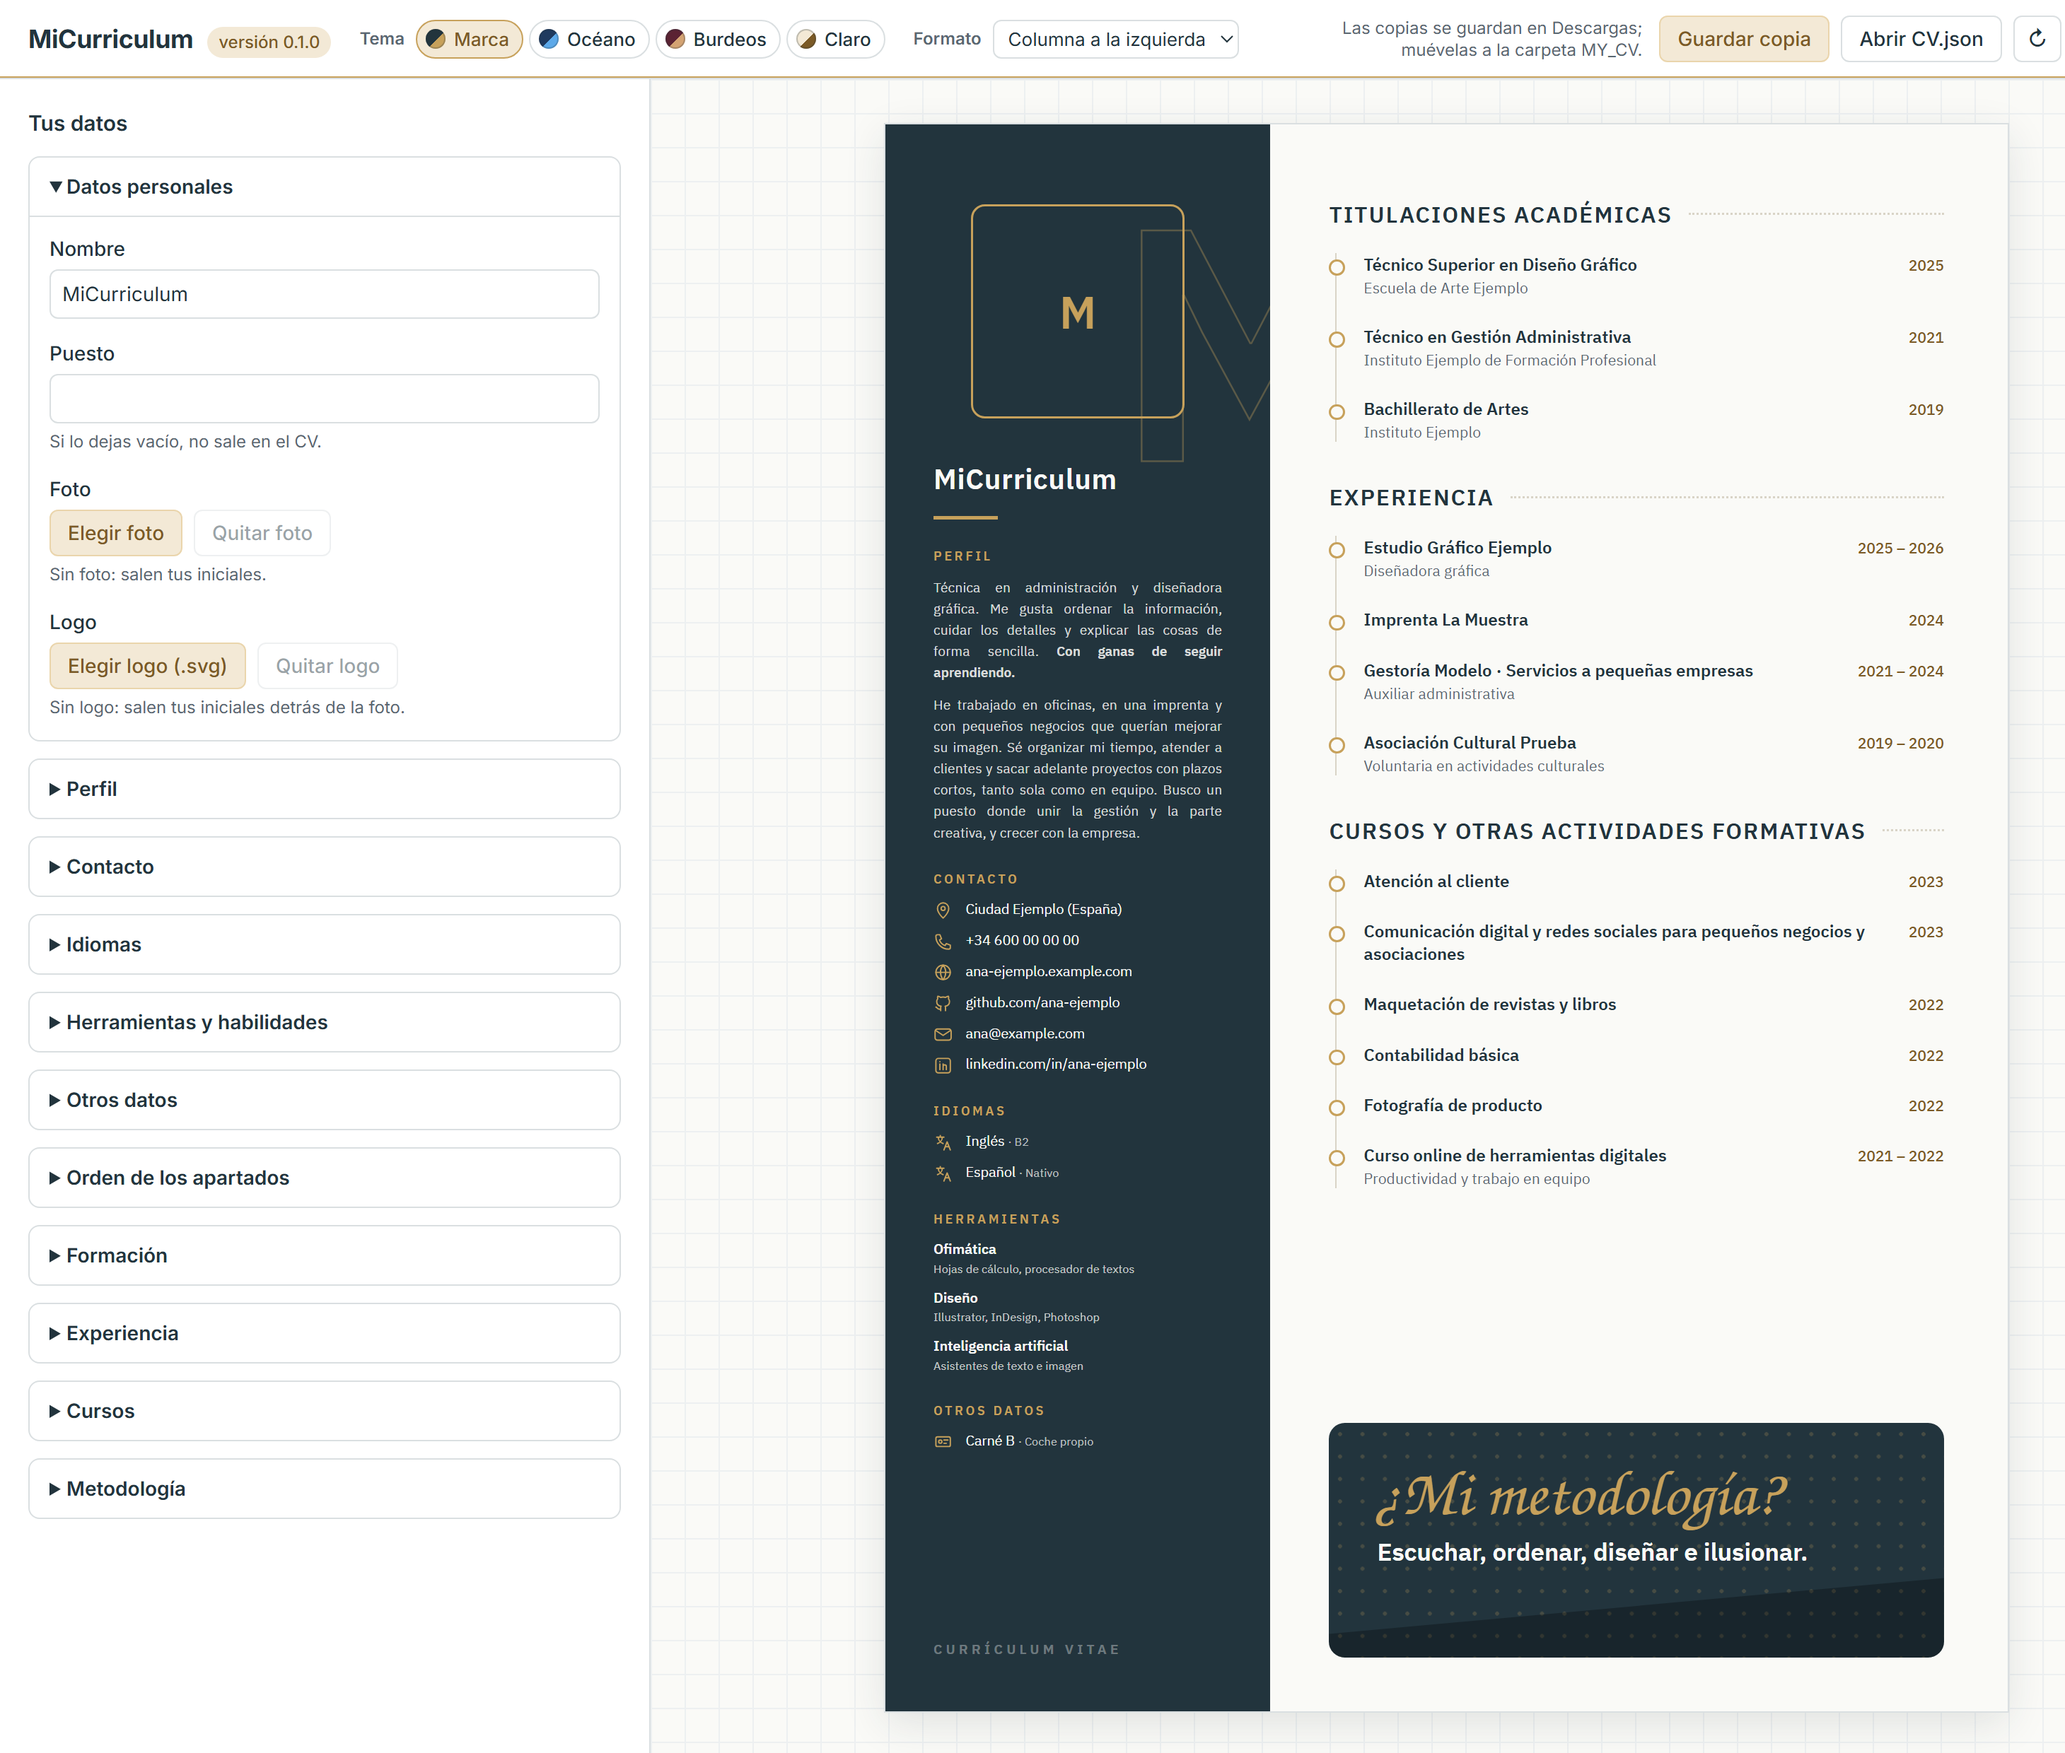
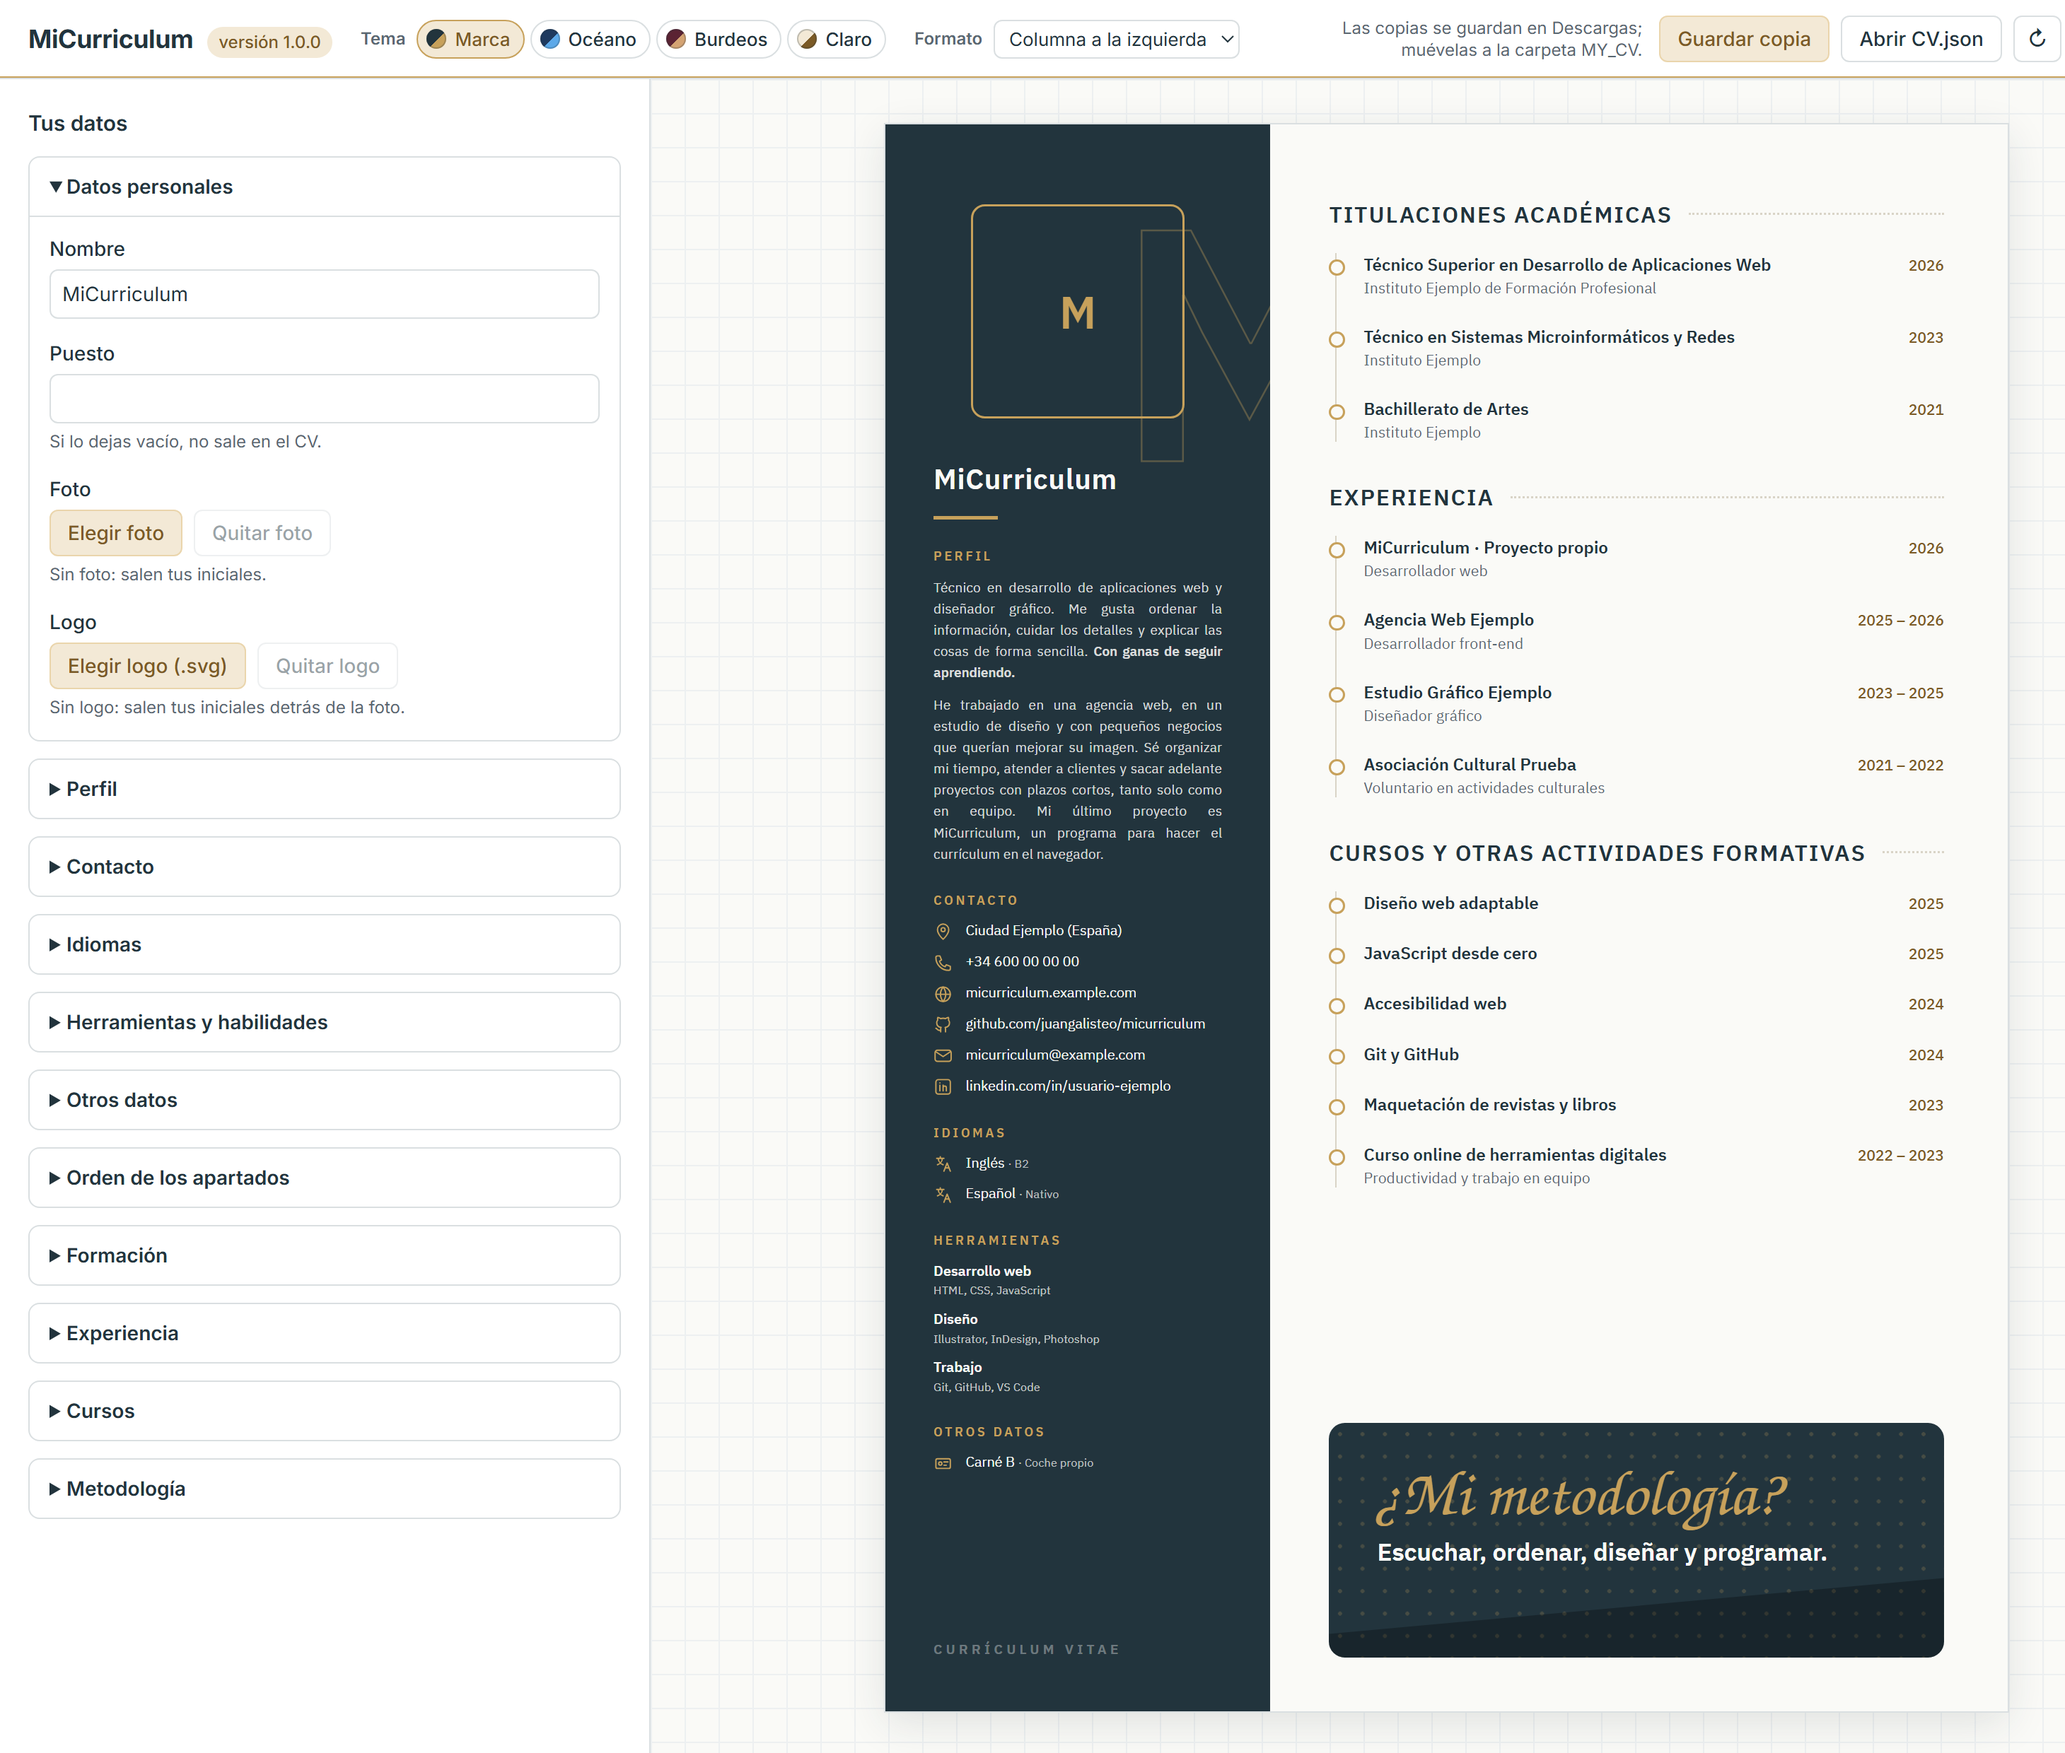
Versión 1.0.0

diff --git a/tests/texts.test.js b/tests/texts.test.js
@@ -16,7 +16,7 @@ const { getText } = require("../APP/js/app.js");
 
 test("texts.js loads and has the program version", () => {
   assert.equal(typeof TEXTS, "object");
-  assert.equal(TEXTS.version, "0.1.0");
+  assert.equal(TEXTS.version, "1.0.0");
   assert.match(TEXTS.version, /^\d+\.\d+\.\d+$/);
 });
 

diff --git a/APP/js/texts.js b/APP/js/texts.js
@@ -14,7 +14,7 @@
 "use strict";
 
 var TEXTS = {
-  version: "0.1.0",
+  version: "1.0.0",
   appName: "MiCurriculum",
   versionLabel: "versión",
   pageTitle: "MiCurriculum · Haz tu currículum",
